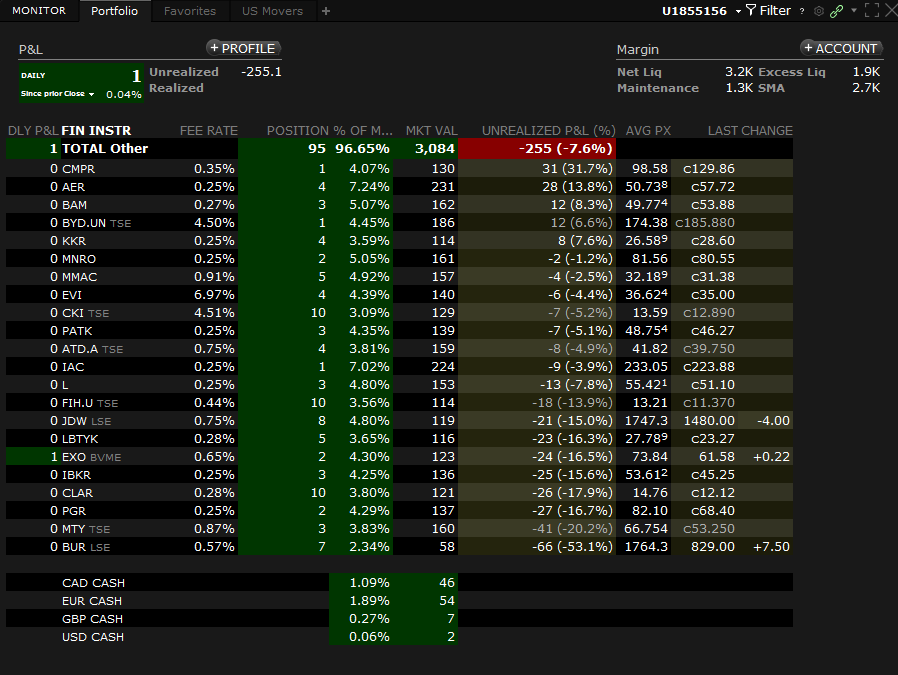
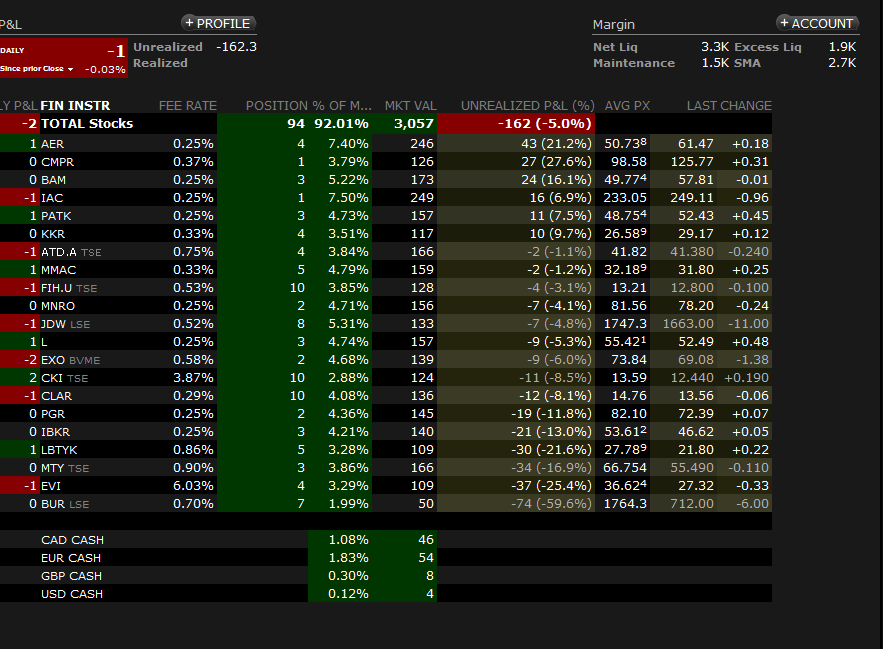
Updated bet of the decade

diff --git a/blog/bet-of-the-decade.html b/blog/bet-of-the-decade.html
@@ -69,7 +69,7 @@
 <section class="row">
 <div class="coffee-span-12 header">
 <h3 class="heading-1" style="direction: rtl; font-size: 40px;">התערבות העשור: השקעה פאסיבית מול מנוהלת</h3>
-<p class="paragraph" style="font-size:12px;">פורסם בתאריך 30.6.2019</p>
+<p class="paragraph" style="font-size:12px;">פורסם בתאריך 30.6.2019, עדכון אחרון ב-1.1.2020</p>
 <p class="paragraph" style="font-size:12px;">התכנים בפוסט זה, כמו כל שאר התכנים בבלוג, הינם תכנים לימודיים במהותם, הם אינם מהווים ייעוץ או המלצה לביצוע פעולה בנייר ערך, ואין לראות בהם תחליף לייעוץ השקעות ו/או ייעוץ פנסיוני המתחשב בצרכיו הייחודיים של כל אדם.</p>
 <br>
 <div class="container table-row">
@@ -119,15 +119,16 @@
 <p class="paragraph"><b>מדוע דווקא המדדים הללו?</b> כיוון שמדדי מניות קטנות מספקים תשואה היסטורית (נומינלית) של כ-12% לשנה בממוצע רב-שנתי, ומדדי מניות גדולות מספקים תשואה של כ-10% לשנה בממוצע רב-שנתי, יש היגיון בחשיפה משמעותית של התיק גם למניות קטנות ולא רק למניות גדולות או מניות ענק כמו המניות הכלולות במדד ה-S&P 500 למשל (כמובן שהתשואה העודפת באה ע"ח תנודתיות גבוהה יותר). הסיבה לבחירת שני מדדים ולא מדד גלובלי אחד שכולל גם חברות גדולות וגם קטנות (כדוגמת MSCI World All Cap Index) היא שהמשקל של כמה מאות מניות ענק במדד עולמי אחד מהווה כ-80-90% מכלל המדד, כך שאלפי חברות קטנות יותר מקבלות חשיפה מאוד נמוכה. לכן, בחר רונן להקצות 50% מהתיק למדד מניות גדולות ו-50% למדד מניות קטנות. אין לראות בתיק זה משום המלצה לביצוע פעולה בניירות ערך או לייעוץ השקעות המתחשב בצרכיו הייחודיים של כל אדם.</p>
 
 <p class="paragraph" style="padding-top: 20px; font-size:22px; color: #008000" id="results">תוצאות ההתערבות</p>
-<p class="paragraph">התוצאות שלהלן הינן התוצאות המצטברות ממועד תחילת ההתערבות (ה-1.7.2019) ועד ה-23.10.19. נכון למועד זה:</p>
-<p class="paragraph">התיק של יואב השיג תשואה מצטברת שלילית של <b>7.9%-</b>.</p>
-<p class="paragraph">התיק של רונן השיג תשואה מצטברת חיובית של <b>1%</b>.</p>
-<p class="paragraph">הפרש התשואות עומד כרגע על <b>8.9%</b> לזכות התיק של רונן.</p>
+<p class="paragraph">התוצאות שלהלן הינן התוצאות המצטברות ממועד תחילת ההתערבות (ה-1.7.2019) ועד ה-1.1.2020. נכון למועד זה:</p>
+<p class="paragraph">התיק של יואב השיג תשואה מצטברת שלילית של <b>5.3%-</b>.</p>
+<p class="paragraph">התיק של רונן השיג תשואה מצטברת חיובית של <b>8.6%</b>.</p>
+<p class="paragraph">הפרש התשואות עומד כרגע על <b>13.9%</b> לזכות התיק של רונן.</p>
+<p class="paragraph">נכון לחודש אוקטובר 2019 הפרש התשואות עמד על <b>8.9%</b> לזכות התיק של רונן.</p>
 <p class="paragraph" style="font-size:18px;">סיכום תוצאות התיק של יואב</p>
-<p class="paragraph">התיק של יואב התחיל משווי של $3,455, ועמד נכון למועד הדיווח על שווי של $3,192, המגלם תשואה שלילית של 7.6%-. בניכוי דמי הניהול עומדת התשואה על 7.9%-. יש לציין כי חלק מהפסד התיק נובע מעמלות הרכישה הראשונית. הטבלה שלהלן מפרטת את התשואות של כל אחת מהמניות בתיק של יואב.</p>
+<p class="paragraph">התיק של יואב התחיל משווי של $3,455, ועמד נכון למועד הדיווח על שווי של $3,293, המגלם תשואה שלילית של 4.7%-. בניכוי דמי הניהול המצטברים עומדת התשואה על 5.3%-. הטבלה שלהלן מפרטת את התשואות של כל אחת מהמניות בתיק של יואב.</p>
 <p class="paragraph" style="text-align: center;"><img src="../images/results-yoav.png" alt="results-yoav"></p>
 <p class="paragraph" style="font-size:18px;">סיכום תוצאות התיק של רונן</p>
-<p class="paragraph">התיק של רונן התחיל משווי של $200 ($100 לכל מדד) ועמד נכון למועד הדיווח על שווי של $202, המגלם תשואה של 1%. הגרף שלהלן מציג את התשואה של שני המדדים בתיק של רונן.</p>
+<p class="paragraph">התיק של רונן התחיל משווי של $200 ($100 לכל מדד) ועמד נכון למועד הדיווח על שווי של $217.16, המגלם תשואה של 8.6%. הגרף שלהלן מציג את התשואה של שני המדדים בתיק של רונן.</p>
 <p class="paragraph" style="text-align: center;"><img src="../images/results-ronen.png" alt="results-ronen"></p>
 <br>
 <p class="paragraph">רוצה לשאול שאלות ולהשתתף בדיון? את/ה מוזמן/ת ל<a target="_blank" href="https://www.facebook.com/groups/2210028712553194/permalink/2424941474395249/">פוסט ההתערבות</a> בקבוצת הפייסבוק "ידע שווה כסף".</p>
